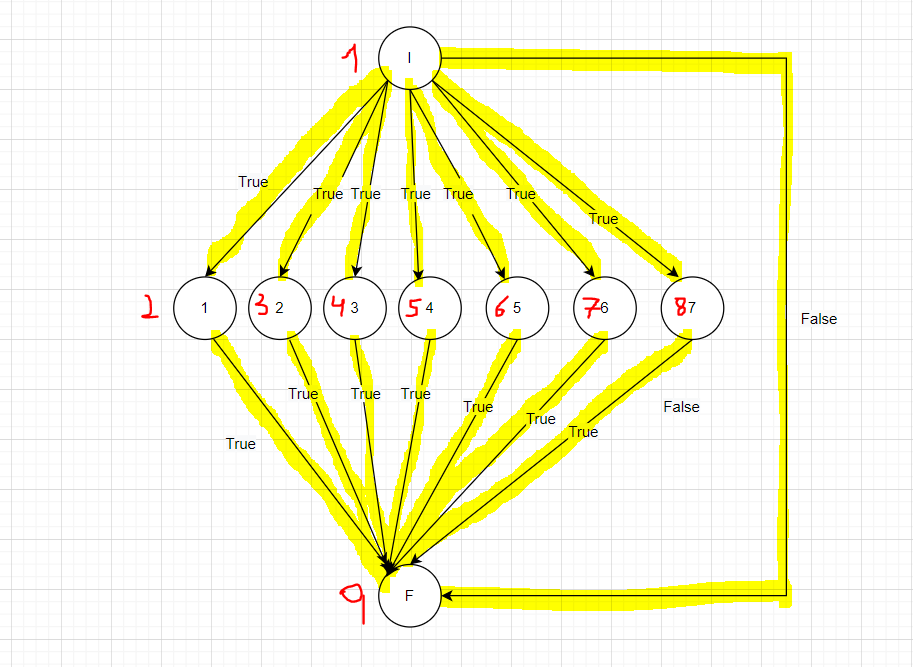
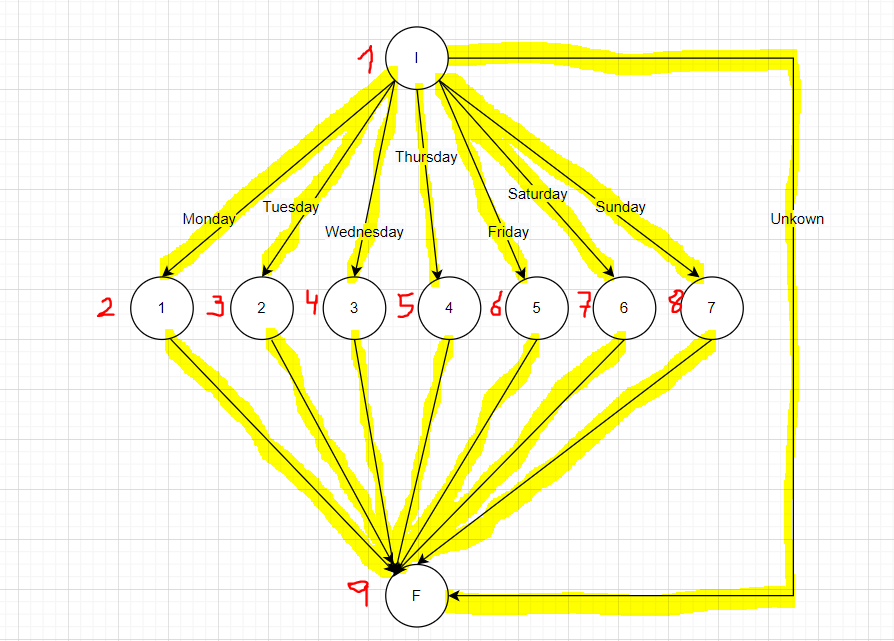
Modify Readme and correct images

diff --git a/README2.md b/README2.md
@@ -1,6 +1,6 @@
 # Segundo ejercicio de Eclemma (Caja Blanca) Días de la Semana con SWITCH.
 
-El orden para hacer nuestras pruebas de caja blnca es: 
+El orden para hacer nuestras pruebas de caja blanca es: 
 
 1. Grafo del flujo del programa.
    
@@ -74,19 +74,21 @@ VG = 8
 
 ## Camino Independiente
 
-En cada camino se ha de añadir una arista nueva 
+En cada camino se ha de añadir una arista nueva. 
 
 ![imagen6](img2/img6.PNG)
 
 ## Ficheros .java
 
-[DiaSemana](SubidaNotaJunio/src/diaSemana/DiaSemana.java)
+[DiaSemana.java](SubidaNotaJunio/src/diaSemana/DiaSemana.java)
 
-[DíaSemanaTest](SubidaNotaJunio/src/diaSemana/DiaSemanaTest.java)
+[DíaSemanaTest.java](SubidaNotaJunio/src/diaSemana/DiaSemanaTest.java)
 
 ## Pantallazo con las Vistas
 
-### Vistas con 100 en test y clase
+Aquí lo que pretendemos es que cada camino quede cubierto, con su correspondiente prueba de Junit y eclemma. Debe ser lo más cercano Posible al 100%.
+
+### Vistas con 100% en test y clase
 
 ![imagen7](img2/img7.PNG)
 
